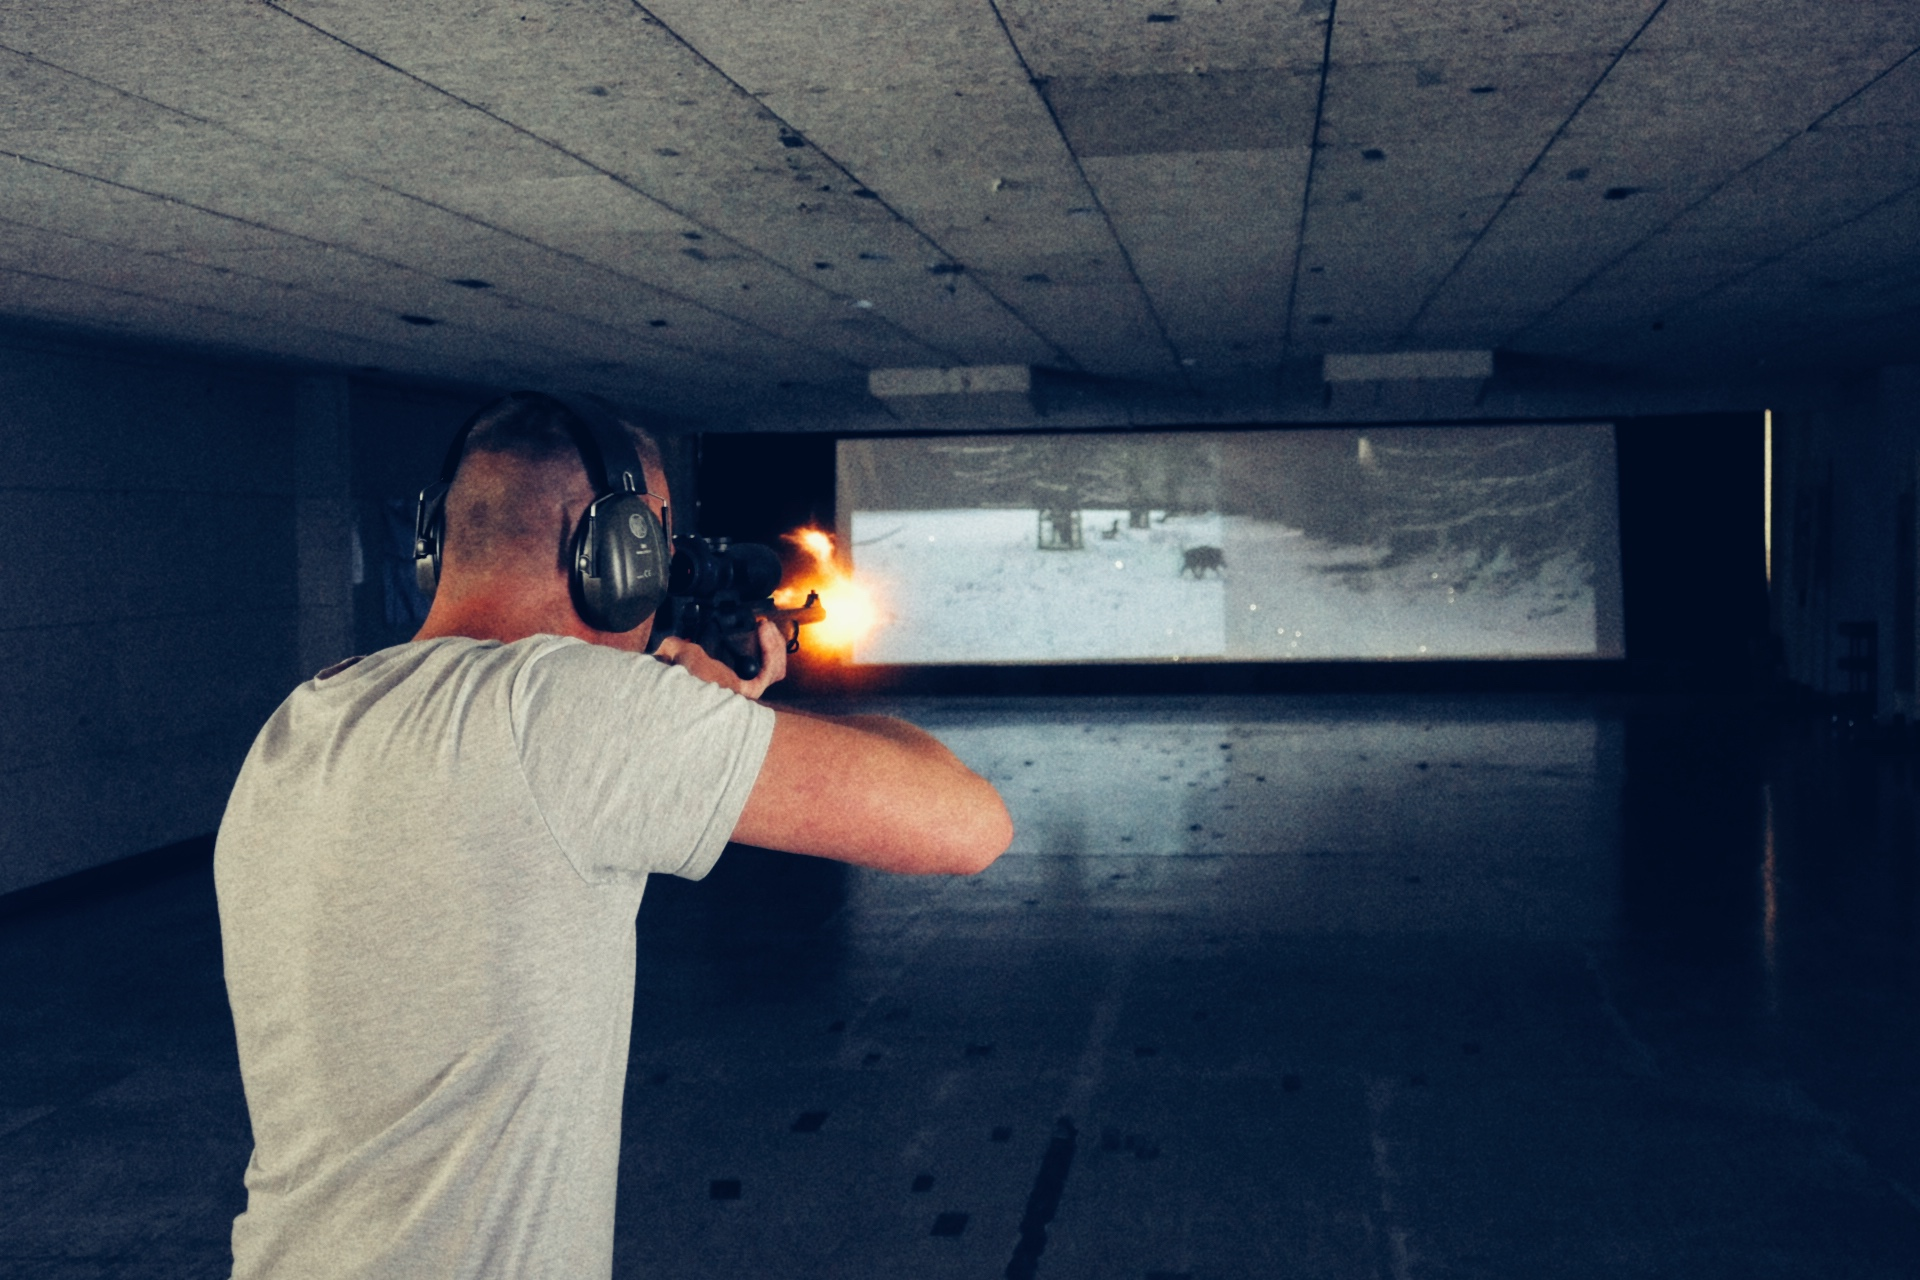
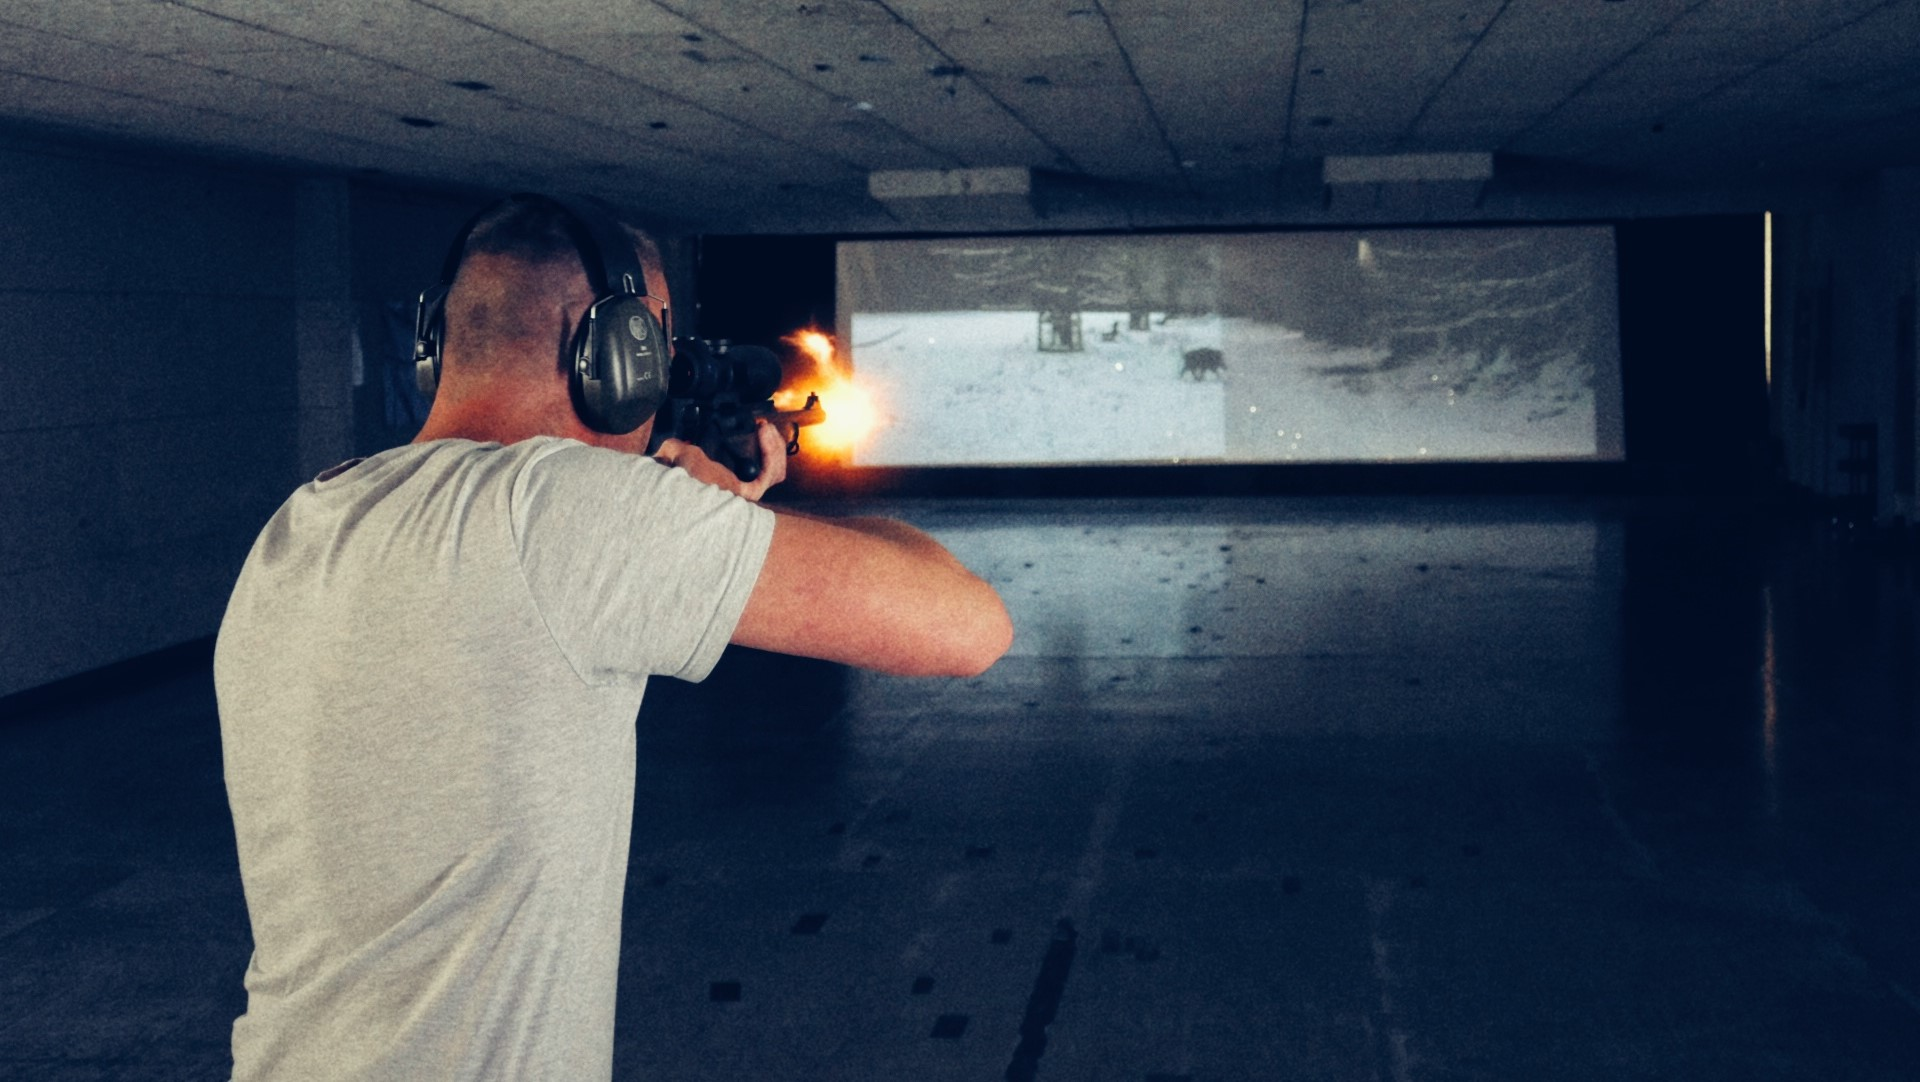
Browserfixes

diff --git a/index.html b/index.html
@@ -972,7 +972,10 @@
                         
                         <div class="carousel-inner">
                             <div class="carousel-item active">
-                                <img src="_assets/_pictures/Jonas_Kahle.jpeg" class="img-fluid rounded-circle test-hidden-img" alt="">
+                                <div class="test-hidden-img-wrapper">
+                                    <img src="_assets/_pictures/Jonas_Kahle.jpeg" class="img-fluid rounded-circle test-hidden-img" alt="">
+                                </div>
+                                
                                 <ul class="d-flex justify-content-center mb-0 rating">
                                   <span>5/5</span>
                                   <li>
@@ -986,7 +989,10 @@
                                 </div>
                             </div>
                             <div class="carousel-item">
-                                <img src="_assets/_pictures/Frühauf_Bild.jpg" class="img-fluid rounded-circle test-hidden-img" alt="">
+                                <div class="test-hidden-img-wrapper">
+                                    <img src="_assets/_pictures/Frühauf_Bild.jpg" class="img-fluid rounded-circle test-hidden-img" alt="">
+                                </div>
+                                
                                 <ul class="d-flex justify-content-center mb-0 rating">
                                   <span>5/5</span>
                                   <li>
@@ -1002,7 +1008,10 @@
                                 </div>
                             </div>
                             <div class="carousel-item">
-                                <img src="_assets/_pictures/P1010061_Squere.jpeg" class="img-fluid rounded-circle test-hidden-img" alt="">
+                                <div class="test-hidden-img-wrapper">
+                                    <img src="_assets/_pictures/P1010061_Squere.jpeg" class="img-fluid rounded-circle test-hidden-img" alt="">
+                                </div>
+                                
                                 <ul class="d-flex justify-content-center mb-0 rating">
                                   <span>5/5</span>
                                   <li>

diff --git a/_styling/course_cards.css b/_styling/course_cards.css
@@ -312,7 +312,7 @@ a, a:hover {
   background-color: transparent;
 }
 
-@media screen and (min-width: 769px) {
+@media screen and (min-width: 991px) {
   .postcard {
     flex-wrap: inherit;
   }
@@ -460,7 +460,7 @@ a, a:hover {
   background-image: linear-gradient(30deg, rgba(189, 187, 73, 0.1), transparent 50%);
 }
 
-@media screen and (min-width: 769px) {
+@media screen and (min-width: 991px) {
   .green::before {
     background-image: linear-gradient(-80deg, rgba(121, 221, 9, 0.1), transparent 50%);
   }

diff --git a/_styling/training.css b/_styling/training.css
@@ -9,7 +9,20 @@
             align-items: center;
             display: flex;
             padding-right: 5%;
-            padding-top: 15%;
+            padding-bottom: 10%;
+            padding-top: 10%;
+}
+
+#carouselExampleIndicators2{
+    min-height: 100%;
+}
+
+#carouselExampleIndicators2> .carousel-inner{
+    min-height: 100%;
+}
+
+#carouselExampleIndicators2> .carousel-inner .carousel-item{
+    min-height: 100%;
 }
 
 .training-row{

diff --git a/_styling/testamonials.css b/_styling/testamonials.css
@@ -11,6 +11,10 @@ a,a:hover{
     display: none;
 }
 
+.test-hidden-img-wrapper{
+    display: none;
+}
+
 body{
     font-family: 'Montserrat', sans-serif;
     .testimonial{
@@ -221,6 +225,13 @@ body{
         justify-self: center;
         margin-bottom: 3%;
     }
+
+    .test-hidden-img-wrapper{
+        display: flex;
+        width: 100%;
+        justify-content: center;
+    }
+
 
     .rating{
         margin-top: 0;

diff --git a/_styling/aboutus.css b/_styling/aboutus.css
@@ -244,13 +244,21 @@
     }
 
     #AboutUs{
-        margin-top: 20%;
+        margin-top: 5%;
     }
 
     .about-us-container{
         margin-left: 0;
         margin-right: 0;
         width: 100%;
+    }
+
+    .action-row{
+        align-items: center;
+        justify-content: center;
+        gap: 10px;
+        padding-left: 10%;
+        padding-right: 10%;
     }
   }
     
